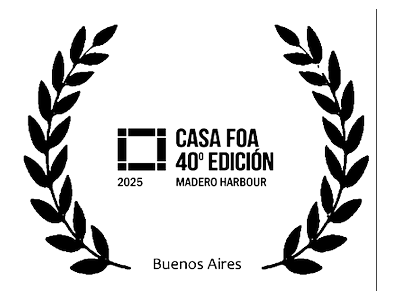
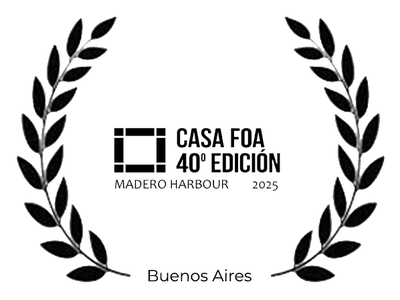
Los premios de Fresco y de Osten Casa FOA entran a la pagina
Los dos salieron de los sellos que mando el estudio, que traen el dato completo:

- Fresco: Archello, Best of 2020, Amsterdam
- Osten Coffee Shop: Casa FOA, 40a edicion 2025, Madero Harbour, Buenos Aires

El rotulo de resultado no es ninguno de los tres que la pagina venia usando
-Ganador, Finalista, Mencion- y forzar uno habria sido inventar: Casa FOA es una
muestra donde los estudios son seleccionados para diseñar un espacio, y el "Best
of" de Archello es una seleccion curada, no un concurso con ganadores. Van como
"Espacio seleccionado" y "Seleccionada".

Los dos logos se normalizaron al mismo lienzo de 400x300 que el resto, centrados
y sin recortar.

Fresco pasa de no mostrar ningun premio a mostrar el suyo, y Osten Casa FOA deja
de tener en su ficha un premio que la pagina no respaldaba: era el unico caso que
panel_premios reportaba como descolgado.

Verificado: 33 filas de premio, las dos fichas con su barra, el espejo sin
faltantes y el generador del panel reproduciendo las 61 fichas.

diff --git a/premios/index.html b/premios/index.html
@@ -168,6 +168,19 @@
             <div class="press-year-head">2025</div>
             <div class="award-row">
               <div class="award-row__left">
+                <div class="award-row__logo"><img src="/assets/awards/casa-foa.png" width="400" height="300" alt=""
+                    loading="lazy" decoding="async"></div>
+                <div class="award-row__content">
+                  <div class="award-row__name"><a href="https://casafoa.com" target="_blank" rel="noopener">Casa FOA</a></div>
+                  <span class="award-row__desc">La cafetería de Osten en la 40ª edición, en Madero Harbour.</span>
+                  <span class="award-row__obra"><a href="/proyectos/osten-foa/">Osten Coffee Shop</a></span>
+                </div>
+              </div>
+              <div class="award-row__res">Espacio seleccionado</div>
+              <div class="award-row__city">Buenos Aires</div>
+            </div>
+            <div class="award-row">
+              <div class="award-row__left">
                 <div class="award-row__logo"><img src="/assets/awards/liv-2025.png" width="400" height="300" alt=""
                     loading="lazy" decoding="async"></div>
                 <div class="award-row__content">
@@ -391,6 +404,19 @@
           </div>
           <div class="award-year-block" data-year="2020">
             <div class="press-year-head">2020</div>
+            <div class="award-row">
+              <div class="award-row__left">
+                <div class="award-row__logo"><img src="/assets/awards/archello.png" width="400" height="300" alt=""
+                    loading="lazy" decoding="async"></div>
+                <div class="award-row__content">
+                  <div class="award-row__name"><a href="https://archello.com" target="_blank" rel="noopener">Archello</a></div>
+                  <span class="award-row__desc">Elegida entre lo mejor del año por Archello.</span>
+                  <span class="award-row__obra"><a href="/proyectos/fresco/">Fresco</a></span>
+                </div>
+              </div>
+              <div class="award-row__res">Seleccionada</div>
+              <div class="award-row__city">Ámsterdam</div>
+            </div>
             <div class="award-row">
               <div class="award-row__left">
                 <div class="award-row__logo"><img src="/assets/awards/iida.png" width="400" height="300" alt=""

diff --git a/en/awards/index.html b/en/awards/index.html
@@ -167,6 +167,19 @@
             <div class="press-year-head">2025</div>
             <div class="award-row">
               <div class="award-row__left">
+                <div class="award-row__logo"><img src="/assets/awards/casa-foa.png" width="400" height="300" alt=""
+                    loading="lazy" decoding="async"></div>
+                <div class="award-row__content">
+                  <div class="award-row__name"><a href="https://casafoa.com" target="_blank" rel="noopener">Casa FOA</a></div>
+                  <span class="award-row__desc">The Osten coffee shop at the 40th edition, in Madero Harbour.</span>
+                  <span class="award-row__obra"><a href="/en/projects/osten-foa/">Osten Coffee Shop</a></span>
+                </div>
+              </div>
+              <div class="award-row__res">Selected space</div>
+              <div class="award-row__city">Buenos Aires</div>
+            </div>
+            <div class="award-row">
+              <div class="award-row__left">
                 <div class="award-row__logo"><img src="/assets/awards/liv-2025.png" width="400" height="300" alt=""
                     loading="lazy" decoding="async"></div>
                 <div class="award-row__content">
@@ -387,6 +400,19 @@
           </div>
           <div class="award-year-block" data-year="2020">
             <div class="press-year-head">2020</div>
+            <div class="award-row">
+              <div class="award-row__left">
+                <div class="award-row__logo"><img src="/assets/awards/archello.png" width="400" height="300" alt=""
+                    loading="lazy" decoding="async"></div>
+                <div class="award-row__content">
+                  <div class="award-row__name"><a href="https://archello.com" target="_blank" rel="noopener">Archello</a></div>
+                  <span class="award-row__desc">Chosen among the best of the year by Archello.</span>
+                  <span class="award-row__obra"><a href="/en/projects/fresco/">Fresco</a></span>
+                </div>
+              </div>
+              <div class="award-row__res">Selected</div>
+              <div class="award-row__city">Amsterdam</div>
+            </div>
             <div class="award-row">
               <div class="award-row__left">
                 <div class="award-row__logo"><img src="/assets/awards/iida.png" width="400" height="300" alt=""

diff --git a/proyectos/fresco/index.html b/proyectos/fresco/index.html
@@ -153,6 +153,15 @@
       </div>
     </section>
 
+    <section class="award-bar">
+      <div class="container award-bar__inner">
+        <h2 class="award-bar__title">Premios y distinciones</h2>
+        <div class="award-bar__logos">
+          <a class="award-bar__item" href="/premios/" aria-label="Ver Archello"><img src="/assets/awards/archello.png" width="400" height="300" alt="Archello" loading="lazy" decoding="async"><span>Archello</span></a>
+        </div>
+      </div>
+    </section>
+
     <section class="section no-border" id="galeria">
       <div class="container">
         <div class="section-head"><div><span class="eyebrow">Galería</span><h2 class="display-3 mt-10">Todas las fotos</h2></div></div>

diff --git a/en/projects/fresco/index.html b/en/projects/fresco/index.html
@@ -153,6 +153,15 @@
       </div>
     </section>
 
+    <section class="award-bar">
+      <div class="container award-bar__inner">
+        <h2 class="award-bar__title">Awards and distinctions</h2>
+        <div class="award-bar__logos">
+          <a class="award-bar__item" href="/en/awards/" aria-label="See Archello"><img src="/assets/awards/archello.png" width="400" height="300" alt="Archello" loading="lazy" decoding="async"><span>Archello</span></a>
+        </div>
+      </div>
+    </section>
+
     <section class="section no-border" id="galeria">
       <div class="container">
         <div class="section-head"><div><span class="eyebrow">Gallery</span><h2 class="display-3 mt-10">All photos</h2></div></div>

diff --git a/en/projects/osten-foa/index.html b/en/projects/osten-foa/index.html
@@ -153,7 +153,7 @@
       <div class="container award-bar__inner">
         <h2 class="award-bar__title">Awards and distinctions</h2>
         <div class="award-bar__logos">
-          <a class="award-bar__item" href="/en/awards/" aria-label="Ver Casa FOA 2025"><img src="/assets/awards/casa-foa.png" width="400" height="300" alt="Casa FOA 2025" loading="lazy" decoding="async"><span>Casa FOA 2025</span></a>
+          <a class="award-bar__item" href="/en/awards/" aria-label="See Casa FOA"><img src="/assets/awards/casa-foa.png" width="400" height="300" alt="Casa FOA" loading="lazy" decoding="async"><span>Casa FOA</span></a>
         </div>
       </div>
     </section>

diff --git a/proyectos/osten-foa/index.html b/proyectos/osten-foa/index.html
@@ -153,7 +153,7 @@
       <div class="container award-bar__inner">
         <h2 class="award-bar__title">Premios y distinciones</h2>
         <div class="award-bar__logos">
-          <a class="award-bar__item" href="/premios/" aria-label="Ver Casa FOA 2025"><img src="/assets/awards/casa-foa.png" width="400" height="300" alt="Casa FOA 2025" loading="lazy" decoding="async"><span>Casa FOA 2025</span></a>
+          <a class="award-bar__item" href="/premios/" aria-label="Ver Casa FOA"><img src="/assets/awards/casa-foa.png" width="400" height="300" alt="Casa FOA" loading="lazy" decoding="async"><span>Casa FOA</span></a>
         </div>
       </div>
     </section>

diff --git a/docs/en_dic7.py b/docs/en_dic7.py
@@ -21,6 +21,21 @@ PASA_EXACTO.update({
     # Nombre de la obra en la barra de premios, desde que el premio del concurso
     # internacional dejo de estar atribuido a Novotel. Es marca, no se traduce.
     'Accor',
+    # Los dos premios que se sumaron el 12/08/2026. Son nombres propios.
+    'Casa FOA', 'Archello',
+})
+
+DIC.update({
+    # Las dos filas nuevas de la pagina de premios.
+    'La cafetería de Osten en la 40ª edición, en Madero Harbour.':
+        'The Osten coffee shop at the 40th edition, in Madero Harbour.',
+    'Elegida entre lo mejor del año por Archello.':
+        'Chosen among the best of the year by Archello.',
+    # Ninguno de los dos es un concurso con ganadores: Casa FOA es una muestra y
+    # el "Best of" de Archello una seleccion curada. Los rotulos lo dicen asi.
+    'Espacio seleccionado': 'Selected space',
+    'Seleccionada': 'Selected',
+    'Ámsterdam': 'Amsterdam',
 })
 
 DIC.update({
